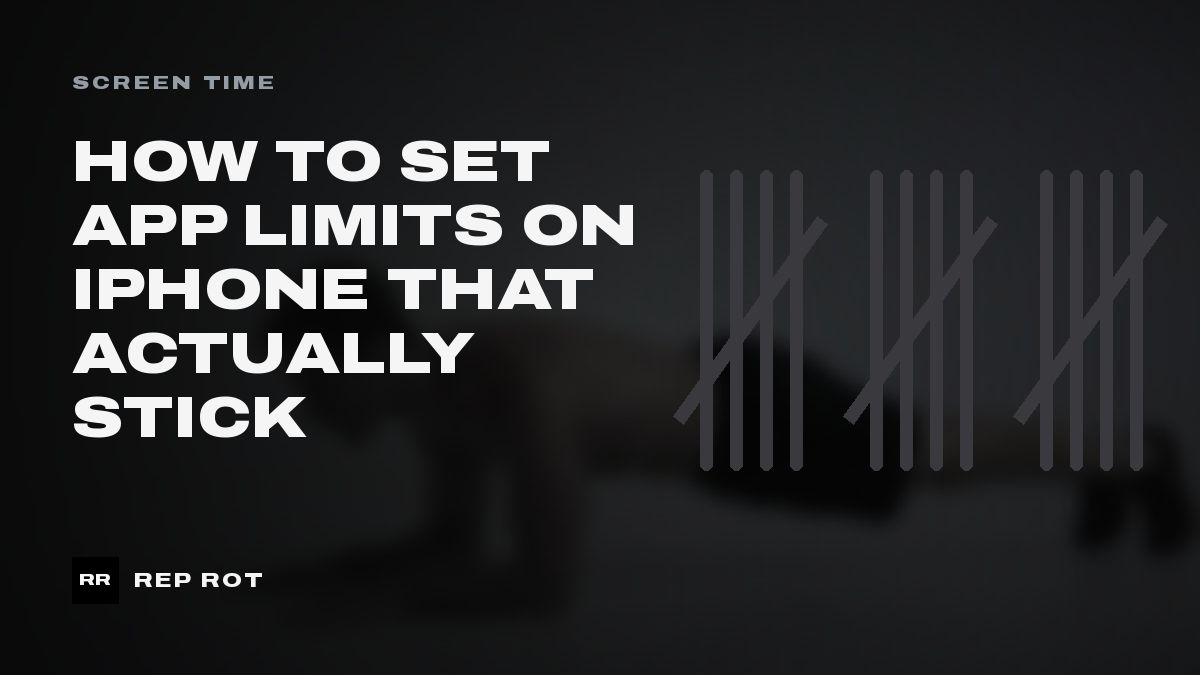
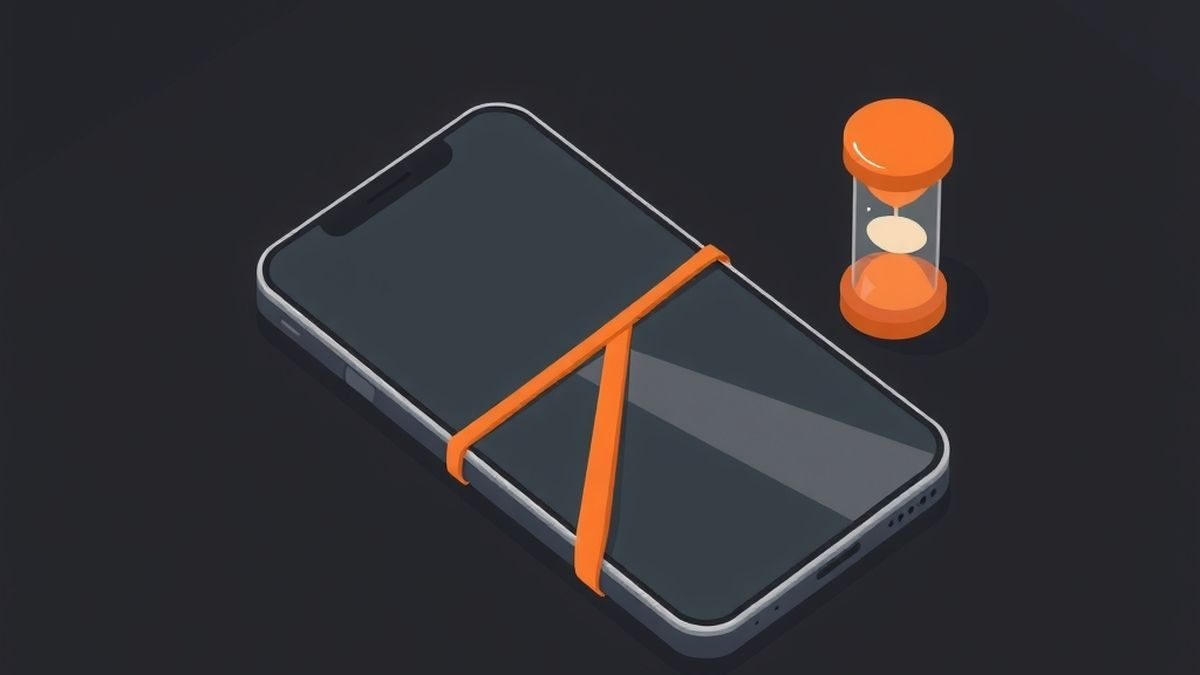
Blog: AI headers for the refocus, app-limits and push-ups-a-day posts
The cloud routine couldn't reach the image API since Oct 30, so these
fell back to look-alike blurred-photo covers. The first-push-up post keeps
its photo cover (four AI tries didn't show a safe, correct push-up).

diff --git a/blog/index.html b/blog/index.html
@@ -39,7 +39,7 @@
   </a>
   <div class="grid">
     <a class="post-card" href="how-many-push-ups-a-day/">
-      <div class="thumb"><img src="img/covers/how-many-push-ups-a-day.jpg" alt="Rep Rot cover: How Many Push-Ups Should You Do a Day?" loading="lazy" width="1200" height="675"></div>
+      <div class="thumb"><img src="img/covers/how-many-push-ups-a-day.jpg" alt="Illustration: a black push-up handle on a dark exercise mat beside a row of orange sticks laid out like tally marks." loading="lazy" width="1200" height="675"></div>
       <div class="card-body">
         <h3>How Many Push-Ups Should You Do a Day?</h3>
         <p>How many push-ups a day to do, based on one honest test set: a table by level, easier versions, rest days, and what the 40 push-up study really found.</p>
@@ -47,7 +47,7 @@
       </div>
     </a>
     <a class="post-card" href="how-to-set-app-limits-on-iphone/">
-      <div class="thumb"><img src="img/covers/how-to-set-app-limits-on-iphone.jpg" alt="Rep Rot cover: How to Set App Limits on iPhone That Actually Stick" loading="lazy" width="1200" height="675"></div>
+      <div class="thumb"><img src="img/covers/how-to-set-app-limits-on-iphone.jpg" alt="Illustration: an iPhone lying on a dark table, strapped shut with an orange band, next to an orange hourglass." loading="lazy" width="1200" height="675"></div>
       <div class="card-body">
         <h3>How to Set App Limits on iPhone That Actually Stick</h3>
         <p>How to set app limits on iPhone in iOS 27 (and iOS 26), why most limits get ignored by day three, and the settings that make them hold when you&#x27;re tired.</p>
@@ -55,7 +55,7 @@
       </div>
     </a>
     <a class="post-card" href="how-long-to-refocus-after-a-notification/">
-      <div class="thumb"><img src="img/covers/how-long-to-refocus-after-a-notification.jpg" alt="Rep Rot cover: How Long Does It Take to Refocus After a Notification?" loading="lazy" width="1200" height="675"></div>
+      <div class="thumb"><img src="img/covers/how-long-to-refocus-after-a-notification.jpg" alt="Illustration: a person working at a laptop on a desk, lit by a lamp, while a glowing orange notification dot and loose papers drift up beside them." loading="lazy" width="1200" height="675"></div>
       <div class="card-body">
         <h3>How Long Does It Take to Refocus After a Notification?</h3>
         <p>How long does it take to refocus after a notification? What the famous 23-minute number really measured, what&#x27;s unproven, and how to get back faster.</p>

diff --git a/blog/how-to-set-app-limits-on-iphone/index.html b/blog/how-to-set-app-limits-on-iphone/index.html
@@ -35,7 +35,7 @@
       <p class="dek">How to set app limits on iPhone in iOS 27 (and iOS 26), why most limits get ignored by day three, and the settings that make them hold when you&#x27;re tired.</p>
       <div class="byline"><img class="avatar" src="../../blog/img/authors/crhistian-c.jpg" alt="Crhistian C"><a class="author" href="../../blog/about/">Crhistian C</a><span class="dot">·</span><time datetime="2026-11-01">Nov 1, 2026</time><span class="dot">·</span><span>9 min read</span></div>
     </div>
-    <figure class="post-cover"><img src="../img/covers/how-to-set-app-limits-on-iphone.jpg" alt="Rep Rot cover: How to Set App Limits on iPhone That Actually Stick" width="1200" height="675"></figure>
+    <figure class="post-cover"><img src="../img/covers/how-to-set-app-limits-on-iphone.jpg" alt="Illustration: an iPhone lying on a dark table, strapped shut with an orange band, next to an orange hourglass." width="1200" height="675"></figure>
     <div class="prose">
 <div class="tldr"><h2>TL;DR</h2><ul>
   <li>In iOS 27, App Limits became <strong>Time Allowances</strong>: Settings → Screen Time → Time Allowances. On iOS 26, use Settings → Screen Time → App Limits → Add Limit.</li>
@@ -208,7 +208,7 @@
       </div>
     </a>
     <a class="post-card" href="../how-long-to-refocus-after-a-notification/">
-      <div class="thumb"><img src="../img/covers/how-long-to-refocus-after-a-notification.jpg" alt="Rep Rot cover: How Long Does It Take to Refocus After a Notification?" loading="lazy" width="1200" height="675"></div>
+      <div class="thumb"><img src="../img/covers/how-long-to-refocus-after-a-notification.jpg" alt="Illustration: a person working at a laptop on a desk, lit by a lamp, while a glowing orange notification dot and loose papers drift up beside them." loading="lazy" width="1200" height="675"></div>
       <div class="card-body">
         <h3>How Long Does It Take to Refocus After a Notification?</h3>
         <p>How long does it take to refocus after a notification? What the famous 23-minute number really measured, what&#x27;s unproven, and how to get back faster.</p>

diff --git a/blog/how-long-to-refocus-after-a-notification/index.html b/blog/how-long-to-refocus-after-a-notification/index.html
@@ -35,7 +35,7 @@
       <p class="dek">How long does it take to refocus after a notification? What the famous 23-minute number really measured, what&#x27;s unproven, and how to get back faster.</p>
       <div class="byline"><img class="avatar" src="../../blog/img/authors/crhistian-c.jpg" alt="Crhistian C"><a class="author" href="../../blog/about/">Crhistian C</a><span class="dot">·</span><time datetime="2026-10-31">Oct 31, 2026</time><span class="dot">·</span><span>9 min read</span></div>
     </div>
-    <figure class="post-cover"><img src="../img/covers/how-long-to-refocus-after-a-notification.jpg" alt="Rep Rot cover: How Long Does It Take to Refocus After a Notification?" width="1200" height="675"></figure>
+    <figure class="post-cover"><img src="../img/covers/how-long-to-refocus-after-a-notification.jpg" alt="Illustration: a person working at a laptop on a desk, lit by a lamp, while a glowing orange notification dot and loose papers drift up beside them." width="1200" height="675"></figure>
     <div class="prose">
 <div class="tldr"><h2>TL;DR</h2><ul>
   <li>There's no reliable single number for how long it takes to refocus after a notification.</li>
@@ -185,7 +185,7 @@
       </div>
     </a>
     <a class="post-card" href="../how-to-set-app-limits-on-iphone/">
-      <div class="thumb"><img src="../img/covers/how-to-set-app-limits-on-iphone.jpg" alt="Rep Rot cover: How to Set App Limits on iPhone That Actually Stick" loading="lazy" width="1200" height="675"></div>
+      <div class="thumb"><img src="../img/covers/how-to-set-app-limits-on-iphone.jpg" alt="Illustration: an iPhone lying on a dark table, strapped shut with an orange band, next to an orange hourglass." loading="lazy" width="1200" height="675"></div>
       <div class="card-body">
         <h3>How to Set App Limits on iPhone That Actually Stick</h3>
         <p>How to set app limits on iPhone in iOS 27 (and iOS 26), why most limits get ignored by day three, and the settings that make them hold when you&#x27;re tired.</p>

diff --git a/blog/how-to-stop-doomscrolling-on-iphone/index.html b/blog/how-to-stop-doomscrolling-on-iphone/index.html
@@ -188,7 +188,7 @@
     <h2>Keep reading</h2>
     <div class="grid">
     <a class="post-card" href="../how-to-set-app-limits-on-iphone/">
-      <div class="thumb"><img src="../img/covers/how-to-set-app-limits-on-iphone.jpg" alt="Rep Rot cover: How to Set App Limits on iPhone That Actually Stick" loading="lazy" width="1200" height="675"></div>
+      <div class="thumb"><img src="../img/covers/how-to-set-app-limits-on-iphone.jpg" alt="Illustration: an iPhone lying on a dark table, strapped shut with an orange band, next to an orange hourglass." loading="lazy" width="1200" height="675"></div>
       <div class="card-body">
         <h3>How to Set App Limits on iPhone That Actually Stick</h3>
         <p>How to set app limits on iPhone in iOS 27 (and iOS 26), why most limits get ignored by day three, and the settings that make them hold when you&#x27;re tired.</p>
@@ -196,7 +196,7 @@
       </div>
     </a>
     <a class="post-card" href="../how-long-to-refocus-after-a-notification/">
-      <div class="thumb"><img src="../img/covers/how-long-to-refocus-after-a-notification.jpg" alt="Rep Rot cover: How Long Does It Take to Refocus After a Notification?" loading="lazy" width="1200" height="675"></div>
+      <div class="thumb"><img src="../img/covers/how-long-to-refocus-after-a-notification.jpg" alt="Illustration: a person working at a laptop on a desk, lit by a lamp, while a glowing orange notification dot and loose papers drift up beside them." loading="lazy" width="1200" height="675"></div>
       <div class="card-body">
         <h3>How Long Does It Take to Refocus After a Notification?</h3>
         <p>How long does it take to refocus after a notification? What the famous 23-minute number really measured, what&#x27;s unproven, and how to get back faster.</p>

diff --git a/blog/how-many-push-ups-a-day/index.html b/blog/how-many-push-ups-a-day/index.html
@@ -35,7 +35,7 @@
       <p class="dek">How many push-ups a day to do, based on one honest test set: a table by level, easier versions, rest days, and what the 40 push-up study really found.</p>
       <div class="byline"><img class="avatar" src="../../blog/img/authors/crhistian-c.jpg" alt="Crhistian C"><a class="author" href="../../blog/about/">Crhistian C</a><span class="dot">·</span><time datetime="2026-11-02">Nov 2, 2026</time><span class="dot">·</span><span>8 min read</span></div>
     </div>
-    <figure class="post-cover"><img src="../img/covers/how-many-push-ups-a-day.jpg" alt="Rep Rot cover: How Many Push-Ups Should You Do a Day?" width="1200" height="675"></figure>
+    <figure class="post-cover"><img src="../img/covers/how-many-push-ups-a-day.jpg" alt="Illustration: a black push-up handle on a dark exercise mat beside a row of orange sticks laid out like tally marks." width="1200" height="675"></figure>
     <div class="prose">
 <div class="tldr"><h2>TL;DR</h2><ul>
   <li>There's no proven universal number. Test one clean set and use about half of it per set, two to four sets a day.</li>

diff --git a/blog/phone-is-the-enemy-of-focus/index.html b/blog/phone-is-the-enemy-of-focus/index.html
@@ -148,7 +148,7 @@
     <h2>Keep reading</h2>
     <div class="grid">
     <a class="post-card" href="../how-long-to-refocus-after-a-notification/">
-      <div class="thumb"><img src="../img/covers/how-long-to-refocus-after-a-notification.jpg" alt="Rep Rot cover: How Long Does It Take to Refocus After a Notification?" loading="lazy" width="1200" height="675"></div>
+      <div class="thumb"><img src="../img/covers/how-long-to-refocus-after-a-notification.jpg" alt="Illustration: a person working at a laptop on a desk, lit by a lamp, while a glowing orange notification dot and loose papers drift up beside them." loading="lazy" width="1200" height="675"></div>
       <div class="card-body">
         <h3>How Long Does It Take to Refocus After a Notification?</h3>
         <p>How long does it take to refocus after a notification? What the famous 23-minute number really measured, what&#x27;s unproven, and how to get back faster.</p>

diff --git a/blog/your-alarm-isnt-too-quiet/index.html b/blog/your-alarm-isnt-too-quiet/index.html
@@ -181,7 +181,7 @@
       </div>
     </a>
     <a class="post-card" href="../how-long-to-refocus-after-a-notification/">
-      <div class="thumb"><img src="../img/covers/how-long-to-refocus-after-a-notification.jpg" alt="Rep Rot cover: How Long Does It Take to Refocus After a Notification?" loading="lazy" width="1200" height="675"></div>
+      <div class="thumb"><img src="../img/covers/how-long-to-refocus-after-a-notification.jpg" alt="Illustration: a person working at a laptop on a desk, lit by a lamp, while a glowing orange notification dot and loose papers drift up beside them." loading="lazy" width="1200" height="675"></div>
       <div class="card-body">
         <h3>How Long Does It Take to Refocus After a Notification?</h3>
         <p>How long does it take to refocus after a notification? What the famous 23-minute number really measured, what&#x27;s unproven, and how to get back faster.</p>

diff --git a/blog/how-to-do-your-first-push-up/index.html b/blog/how-to-do-your-first-push-up/index.html
@@ -198,7 +198,7 @@
     <h2>Keep reading</h2>
     <div class="grid">
     <a class="post-card" href="../how-many-push-ups-a-day/">
-      <div class="thumb"><img src="../img/covers/how-many-push-ups-a-day.jpg" alt="Rep Rot cover: How Many Push-Ups Should You Do a Day?" loading="lazy" width="1200" height="675"></div>
+      <div class="thumb"><img src="../img/covers/how-many-push-ups-a-day.jpg" alt="Illustration: a black push-up handle on a dark exercise mat beside a row of orange sticks laid out like tally marks." loading="lazy" width="1200" height="675"></div>
       <div class="card-body">
         <h3>How Many Push-Ups Should You Do a Day?</h3>
         <p>How many push-ups a day to do, based on one honest test set: a table by level, easier versions, rest days, and what the 40 push-up study really found.</p>

diff --git a/blog/exercise-snacks/index.html b/blog/exercise-snacks/index.html
@@ -168,7 +168,7 @@
       </div>
     </a>
     <a class="post-card" href="../how-many-push-ups-a-day/">
-      <div class="thumb"><img src="../img/covers/how-many-push-ups-a-day.jpg" alt="Rep Rot cover: How Many Push-Ups Should You Do a Day?" loading="lazy" width="1200" height="675"></div>
+      <div class="thumb"><img src="../img/covers/how-many-push-ups-a-day.jpg" alt="Illustration: a black push-up handle on a dark exercise mat beside a row of orange sticks laid out like tally marks." loading="lazy" width="1200" height="675"></div>
       <div class="card-body">
         <h3>How Many Push-Ups Should You Do a Day?</h3>
         <p>How many push-ups a day to do, based on one honest test set: a table by level, easier versions, rest days, and what the 40 push-up study really found.</p>

diff --git a/blog-src/posts/how-long-to-refocus-after-a-notification.html b/blog-src/posts/how-long-to-refocus-after-a-notification.html
@@ -3,6 +3,7 @@ title: How Long Does It Take to Refocus After a Notification?
 description: How long does it take to refocus after a notification? What the famous 23-minute number really measured, what's unproven, and how to get back faster.
 date: 2026-10-31
 tags: Focus, Habits, iPhone Tips
+cover_alt: Illustration: a person working at a laptop on a desk, lit by a lamp, while a glowing orange notification dot and loose papers drift up beside them.
 -->
 <p>You're three paragraphs into the hard part of a report. The sentence you need is almost there.</p>
 

diff --git a/blog-src/posts/how-to-set-app-limits-on-iphone.html b/blog-src/posts/how-to-set-app-limits-on-iphone.html
@@ -3,6 +3,7 @@ title: How to Set App Limits on iPhone That Actually Stick
 description: How to set app limits on iPhone in iOS 27 (and iOS 26), why most limits get ignored by day three, and the settings that make them hold when you're tired.
 date: 2026-11-01
 tags: Screen Time, iPhone Tips
+cover_alt: Illustration: an iPhone lying on a dark table, strapped shut with an orange band, next to an orange hourglass.
 -->
 <p>You set a 30-minute limit on Instagram on Sunday night. It felt good.</p>
 

diff --git a/blog-src/posts/how-many-push-ups-a-day.html b/blog-src/posts/how-many-push-ups-a-day.html
@@ -4,6 +4,7 @@ description: How many push-ups a day to do, based on one honest test set: a tabl
 date: 2026-11-02
 tags: Push-Ups, Bodyweight Training, Beginners
 cover: pushup
+cover_alt: Illustration: a black push-up handle on a dark exercise mat beside a row of orange sticks laid out like tally marks.
 -->
 <p>You saw someone online doing 100 push-ups a day for 30 days. Day one, you got to 22, then did the last eight on your knees, sort of.</p>
 
